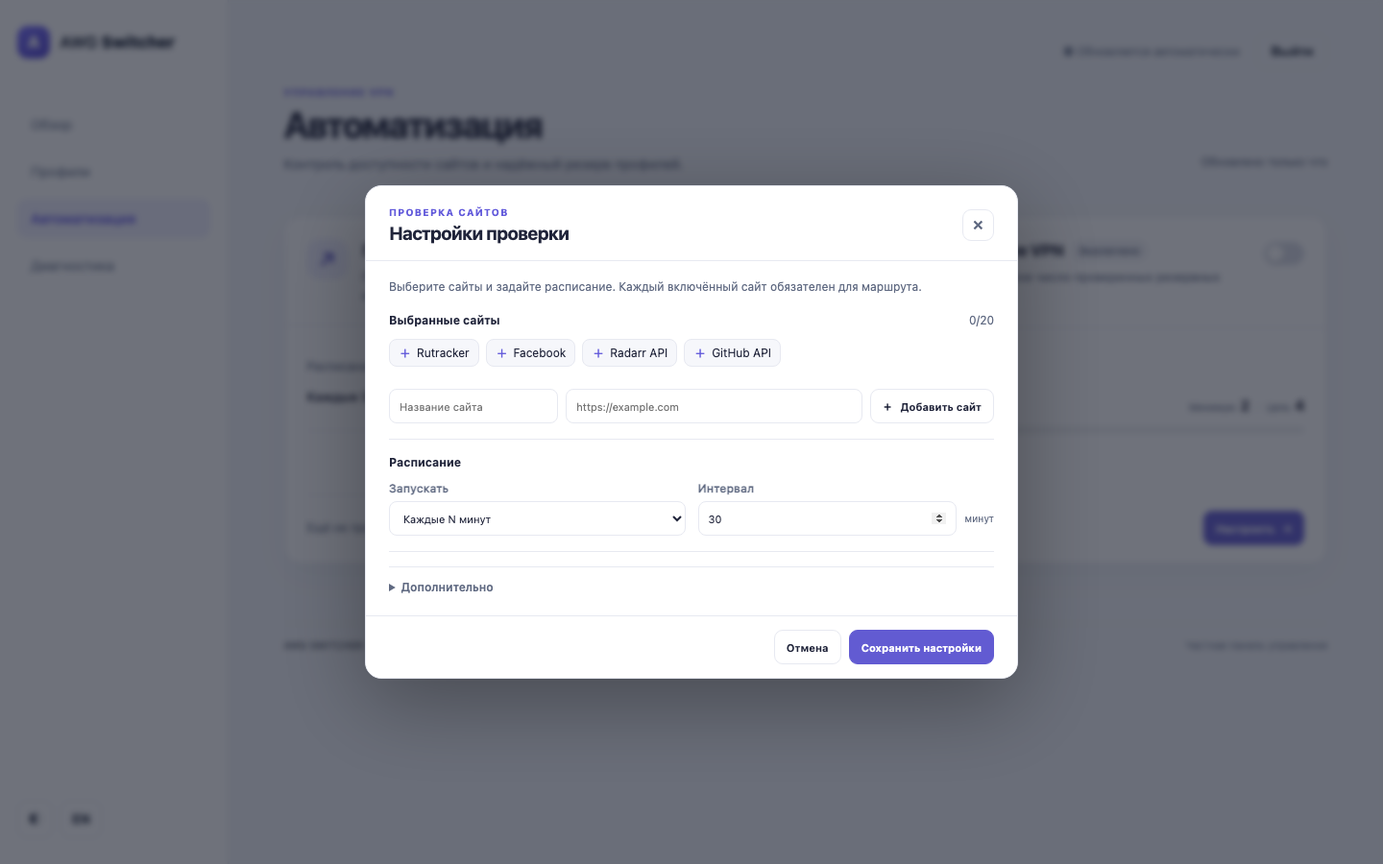
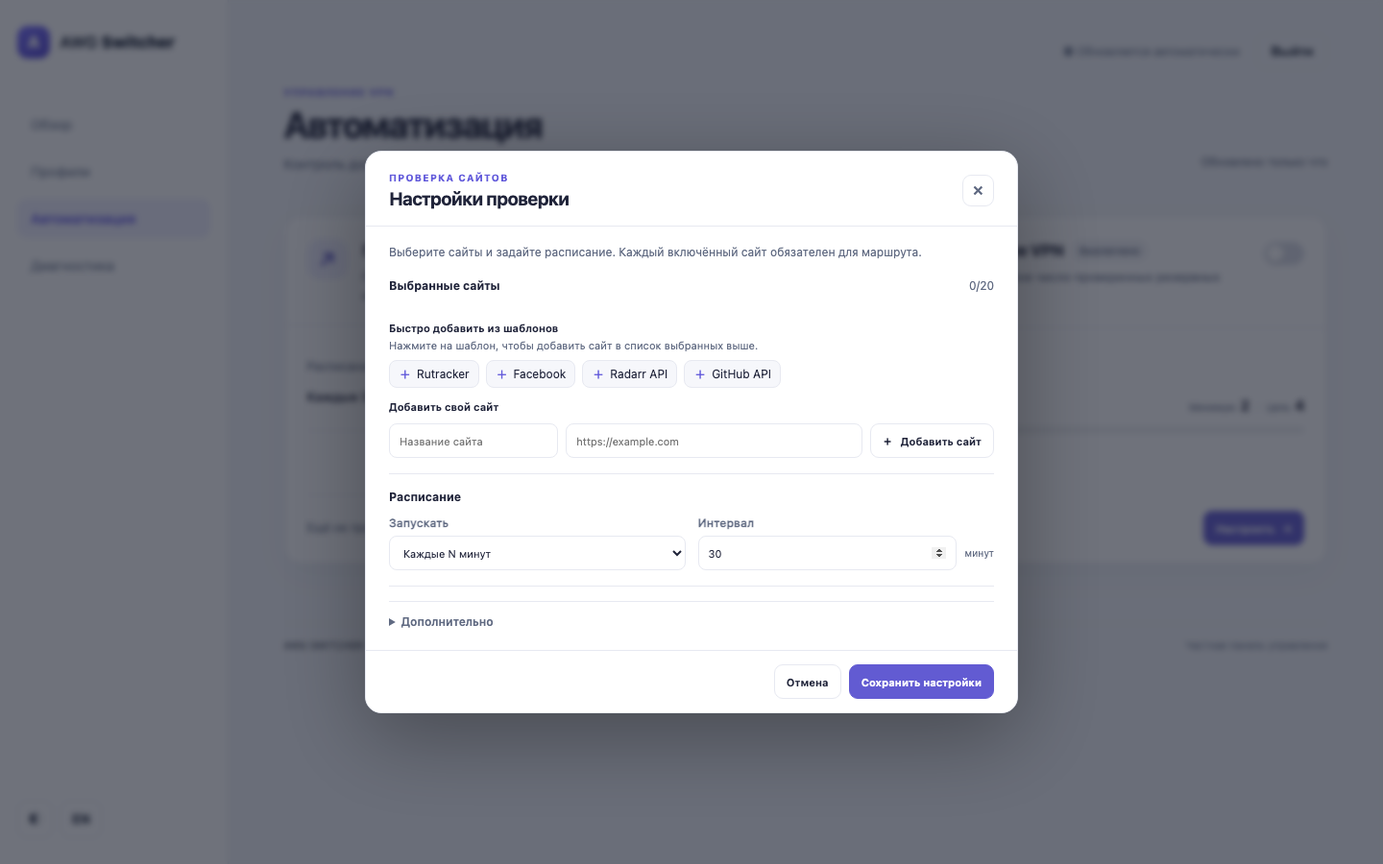
Clarify website template selection

diff --git a/cmd/awg-switcher/web/automation-page.js b/cmd/awg-switcher/web/automation-page.js
@@ -1,8 +1,8 @@
 (()=>{'use strict';
 const $=s=>document.querySelector(s),$$=s=>[...document.querySelectorAll(s)];
 const text={
- ru:{eyebrow:'УПРАВЛЕНИЕ VPN',title:'Автоматизация',intro:'Контроль доступности сайтов и надёжный резерв профилей.',siteTitle:'Проверка сайтов',siteDescription:'Проверяем сайты через каждый VPN-профиль и исключаем неподходящие маршруты.',poolTitle:'Автопополнение VPN',poolDescription:'Поддерживаем нужное число проверенных резервных профилей.',enabled:'Включено',disabled:'Выключено',requiresSetup:'Требуется настройка',working:'Работает',checking:'Проверка…',waiting:'Ожидает первую проверку',workingProfiles:'Рабочих профилей',minimum:'Минимум',target:'Цель',schedule:'Расписание',nextCheck:'Следующая проверка',check:'Проверить',configure:'Настроить',siteSettingsEyebrow:'ПРОВЕРКА САЙТОВ',siteSettingsTitle:'Настройки проверки',siteDialogIntro:'Выберите сайты и задайте расписание. Каждый включённый сайт обязателен для маршрута.',selectedSites:'Выбранные сайты',siteNamePlaceholder:'Название сайта',siteUrlPlaceholder:'https://example.com',addSite:'Добавить сайт',scheduleTitle:'Расписание',scheduleMode:'Запускать',interval:'Интервал',minutes:'минут',dailyTime:'Время',advanced:'Дополнительно',timezone:'Часовой пояс',policy:'Политика сайтов',minimumPasses:'Минимум успешных проверок',timeout:'Таймаут, сек',failureThreshold:'Отказов до блокировки',recoveryThreshold:'Успехов до восстановления',pauseSchedule:'Приостановить расписание',cancel:'Отмена',saveSettings:'Сохранить настройки',poolSettingsEyebrow:'РЕЗЕРВ VPN',poolSettingsTitle:'Настройки автопополнения',poolDialogIntro:'Новые конфиги проходят проверку и добавляются как резервные. Основной профиль не заменяется.',minimumReady:'Минимум рабочих профилей',targetReady:'Целевое количество',versionsTitle:'Версии AWG',checkInterval:'Проверять необходимость, мин',cooldown:'Пауза после ошибки, мин',maxPerRun:'Кандидатов за запуск',dailyLimit:'Попыток за сутки',maxSaved:'Сохранённых профилей',autoActivate:'Добавлять проверенные профили в резерв',generateBelow:'Пополнять при нехватке',generateAllDown:'Разрешить при полном отказе VPN',useWebsites:'Проверять сайты на новых профилях',notifyLow:'Показывать предупреждение о нехватке',generatorNote:'Используются настройки существующего генератора. Автоматическое удаление профилей не выполняется.',profileSummary:'Состояние VPN загружается…',loading:'Загрузка состояния…',loadError:'Не удалось загрузить состояние автоматизации.',retry:'Повторить',noProfiles:'Нет профилей',noData:'Нет данных',noChecks:'Ещё не проверялся',monitorOff:'Проверка сайтов выключена',schedulePaused:'Расписание приостановлено',noSites:'Сайты не выбраны',openSettings:'Добавить сайты в настройках',nextDisabled:'Автоматические проверки выключены',nextNoSites:'Добавьте сайты, чтобы включить проверки',lastCheck:'Последняя проверка',passedProfiles:'профилей прошли',nextAt:'Далее',available:'Доступен',unavailable:'Недоступен',httpError:'Ответ HTTP',pending:'Ожидает проверки',siteDisabled:'Выключен',siteError:'Ошибка проверки',moreSites:'Ещё',profilesWorking:'Рабочих профилей',profilesBlocked:'исключены политикой сайтов',poolLastNever:'Ещё не запускалось',poolOff:'Автопополнение выключено',poolRunning:'Проверяем новые профили…',poolFailed:'Последняя попытка не удалась',poolDone:'Последнее пополнение',lastGeneration:'Последняя генерация',addedReserves:'Добавлено резервов',poolWaiting:'Пополнение не требуется',poolShortage:'Профилей меньше минимума',siteSaved:'Настройки проверки сохранены',poolSaved:'Настройки автопополнения сохранены',toggleSaved:'Изменение сохранено',checkStarted:'Проверка завершена',confirmEnable:'Включить автопополнение? Если профилей меньше минимума, начнётся ограниченная генерация.',confirmSave:'Сохранить изменения доступности? Будет выполнен предварительный прогноз маршрутов.',noWorking:'Нет доступных маршрутов',saveError:'Не удалось сохранить настройки',invalidURL:'Введите название и HTTPS-адрес сайта.',minimumTarget:'Целевое количество должно быть не меньше минимального.',chooseVersion:'Выберите хотя бы одну версию AWG.',remove:'Удалить',required:'Обязательный',enabledShort:'Включён',statusError:'Ошибка загрузки',unknown:'Нет данных',generationQueued:'Запуск поставлен в очередь',save:'Сохранить',statuses:'Ожидаемые HTTP-статусы',history:'История автопополнения'},
-  en:{eyebrow:'VPN CONTROL',title:'Automation',intro:'Website availability and a reliable reserve of VPN profiles.',siteTitle:'Website checks',siteDescription:'Check sites through each VPN profile and keep unsuitable routes out of service.',poolTitle:'VPN replenishment',poolDescription:'Maintain the desired number of verified reserve profiles.',enabled:'Enabled',disabled:'Off',requiresSetup:'Setup required',working:'Running',checking:'Checking…',waiting:'Waiting for first check',workingProfiles:'Working profiles',minimum:'Minimum',target:'Target',schedule:'Schedule',nextCheck:'Next check',check:'Check now',configure:'Configure',siteSettingsEyebrow:'WEBSITE CHECKS',siteSettingsTitle:'Website check settings',siteDialogIntro:'Choose sites and a schedule. Each enabled site is required for a route.',selectedSites:'Selected sites',siteNamePlaceholder:'Website name',siteUrlPlaceholder:'https://example.com',addSite:'Add website',scheduleTitle:'Schedule',scheduleMode:'Run',interval:'Interval',minutes:'minutes',dailyTime:'Time',advanced:'Advanced',timezone:'Time zone',policy:'Website policy',minimumPasses:'Minimum successful checks',timeout:'Timeout, sec',failureThreshold:'Failures before blocking',recoveryThreshold:'Successes before recovery',pauseSchedule:'Pause schedule',cancel:'Cancel',saveSettings:'Save settings',poolSettingsEyebrow:'VPN RESERVE',poolSettingsTitle:'Replenishment settings',poolDialogIntro:'New configs are verified and added as backups. The active profile is not replaced.',minimumReady:'Minimum working profiles',targetReady:'Target count',versionsTitle:'AWG versions',checkInterval:'Check need, minutes',cooldown:'Retry pause, minutes',maxPerRun:'Candidates per run',dailyLimit:'Attempts per day',maxSaved:'Saved profiles limit',autoActivate:'Add verified profiles to reserve',generateBelow:'Replenish below minimum',generateAllDown:'Allow generation when all VPNs are down',useWebsites:'Check websites on new profiles',notifyLow:'Show low-pool warning',generatorNote:'Existing generator settings are reused. Profiles are never automatically deleted.',loading:'Loading automation status…',loadError:'Could not load automation status.',retry:'Retry',noProfiles:'No profiles',noData:'No data',noChecks:'Not checked yet',monitorOff:'Website checks are off',schedulePaused:'Schedule paused',noSites:'No sites selected',openSettings:'Add websites in settings',nextDisabled:'Automatic checks are off',nextNoSites:'Add sites to enable checks',lastCheck:'Last check',passedProfiles:'profiles passed',nextAt:'Next',available:'Available',unavailable:'Unavailable',httpError:'HTTP response',pending:'Waiting for check',siteDisabled:'Off',siteError:'Check error',moreSites:'More',profilesBlocked:'excluded by website policy',poolLastNever:'Has not run yet',poolOff:'Automatic replenishment is off',poolRunning:'Verifying new profiles…',poolFailed:'Last attempt failed',poolDone:'Last replenishment',poolWaiting:'No replenishment needed',poolShortage:'Below minimum',lastGeneration:'Last generation',addedReserves:'Reserves added',siteSaved:'Website settings saved',poolSaved:'Replenishment settings saved',toggleSaved:'Change saved',checkStarted:'Check completed',confirmEnable:'Enable automatic replenishment? A limited generation run may start if the pool is low.',confirmSave:'Save website availability changes? A route preview will run first.',noWorking:'No available routes',saveError:'Could not save settings',invalidURL:'Enter a name and an HTTPS website address.',minimumTarget:'Target count must be at least the minimum.',chooseVersion:'Select at least one AWG version.',remove:'Remove',required:'Required',enabledShort:'On',statusError:'Could not load',unknown:'No data',generationQueued:'Run queued',save:'Save',statuses:'Expected HTTP statuses',history:'Replenishment history'}
+ ru:{eyebrow:'УПРАВЛЕНИЕ VPN',title:'Автоматизация',intro:'Контроль доступности сайтов и надёжный резерв профилей.',siteTitle:'Проверка сайтов',siteDescription:'Проверяем сайты через каждый VPN-профиль и исключаем неподходящие маршруты.',poolTitle:'Автопополнение VPN',poolDescription:'Поддерживаем нужное число проверенных резервных профилей.',enabled:'Включено',disabled:'Выключено',requiresSetup:'Требуется настройка',working:'Работает',checking:'Проверка…',waiting:'Ожидает первую проверку',workingProfiles:'Рабочих профилей',minimum:'Минимум',target:'Цель',schedule:'Расписание',nextCheck:'Следующая проверка',check:'Проверить',configure:'Настроить',siteSettingsEyebrow:'ПРОВЕРКА САЙТОВ',siteSettingsTitle:'Настройки проверки',siteDialogIntro:'Выберите сайты и задайте расписание. Каждый включённый сайт обязателен для маршрута.',selectedSites:'Выбранные сайты',templatePickerTitle:'Быстро добавить из шаблонов',templatePickerHint:'Нажмите на шаблон, чтобы добавить сайт в список выбранных выше.',customSiteTitle:'Добавить свой сайт',settingsSavedNoSites:'Настройки сохранены. Выберите шаблон или добавьте сайт, чтобы запустить проверки.',settingsSavedPaused:'Настройки сохранены, расписание приостановлено.',siteNamePlaceholder:'Название сайта',siteUrlPlaceholder:'https://example.com',addSite:'Добавить сайт',scheduleTitle:'Расписание',scheduleMode:'Запускать',interval:'Интервал',minutes:'минут',dailyTime:'Время',advanced:'Дополнительно',timezone:'Часовой пояс',policy:'Политика сайтов',minimumPasses:'Минимум успешных проверок',timeout:'Таймаут, сек',failureThreshold:'Отказов до блокировки',recoveryThreshold:'Успехов до восстановления',pauseSchedule:'Приостановить расписание',cancel:'Отмена',saveSettings:'Сохранить настройки',poolSettingsEyebrow:'РЕЗЕРВ VPN',poolSettingsTitle:'Настройки автопополнения',poolDialogIntro:'Новые конфиги проходят проверку и добавляются как резервные. Основной профиль не заменяется.',minimumReady:'Минимум рабочих профилей',targetReady:'Целевое количество',versionsTitle:'Версии AWG',checkInterval:'Проверять необходимость, мин',cooldown:'Пауза после ошибки, мин',maxPerRun:'Кандидатов за запуск',dailyLimit:'Попыток за сутки',maxSaved:'Сохранённых профилей',autoActivate:'Добавлять проверенные профили в резерв',generateBelow:'Пополнять при нехватке',generateAllDown:'Разрешить при полном отказе VPN',useWebsites:'Проверять сайты на новых профилях',notifyLow:'Показывать предупреждение о нехватке',generatorNote:'Используются настройки существующего генератора. Автоматическое удаление профилей не выполняется.',profileSummary:'Состояние VPN загружается…',loading:'Загрузка состояния…',loadError:'Не удалось загрузить состояние автоматизации.',retry:'Повторить',noProfiles:'Нет профилей',noData:'Нет данных',noChecks:'Ещё не проверялся',monitorOff:'Проверка сайтов выключена',schedulePaused:'Расписание приостановлено',noSites:'Сайты не выбраны',openSettings:'Добавить сайты в настройках',nextDisabled:'Автоматические проверки выключены',nextNoSites:'Добавьте сайты, чтобы включить проверки',lastCheck:'Последняя проверка',passedProfiles:'профилей прошли',nextAt:'Далее',available:'Доступен',unavailable:'Недоступен',httpError:'Ответ HTTP',pending:'Ожидает проверки',siteDisabled:'Выключен',siteError:'Ошибка проверки',moreSites:'Ещё',profilesWorking:'Рабочих профилей',profilesBlocked:'исключены политикой сайтов',poolLastNever:'Ещё не запускалось',poolOff:'Автопополнение выключено',poolRunning:'Проверяем новые профили…',poolFailed:'Последняя попытка не удалась',poolDone:'Последнее пополнение',lastGeneration:'Последняя генерация',addedReserves:'Добавлено резервов',poolWaiting:'Пополнение не требуется',poolShortage:'Профилей меньше минимума',siteSaved:'Настройки проверки сохранены',poolSaved:'Настройки автопополнения сохранены',toggleSaved:'Изменение сохранено',checkStarted:'Проверка завершена',confirmEnable:'Включить автопополнение? Если профилей меньше минимума, начнётся ограниченная генерация.',confirmSave:'Сохранить изменения доступности? Будет выполнен предварительный прогноз маршрутов.',noWorking:'Нет доступных маршрутов',saveError:'Не удалось сохранить настройки',invalidURL:'Введите название и HTTPS-адрес сайта.',minimumTarget:'Целевое количество должно быть не меньше минимального.',chooseVersion:'Выберите хотя бы одну версию AWG.',remove:'Удалить',required:'Обязательный',enabledShort:'Включён',statusError:'Ошибка загрузки',unknown:'Нет данных',generationQueued:'Запуск поставлен в очередь',save:'Сохранить',statuses:'Ожидаемые HTTP-статусы',history:'История автопополнения'},
+  en:{eyebrow:'VPN CONTROL',title:'Automation',intro:'Website availability and a reliable reserve of VPN profiles.',siteTitle:'Website checks',siteDescription:'Check sites through each VPN profile and keep unsuitable routes out of service.',poolTitle:'VPN replenishment',poolDescription:'Maintain the desired number of verified reserve profiles.',enabled:'Enabled',disabled:'Off',requiresSetup:'Setup required',working:'Running',checking:'Checking…',waiting:'Waiting for first check',workingProfiles:'Working profiles',minimum:'Minimum',target:'Target',schedule:'Schedule',nextCheck:'Next check',check:'Check now',configure:'Configure',siteSettingsEyebrow:'WEBSITE CHECKS',siteSettingsTitle:'Website check settings',siteDialogIntro:'Choose sites and a schedule. Each enabled site is required for a route.',selectedSites:'Selected sites',templatePickerTitle:'Quick add from templates',templatePickerHint:'Select a template to add it to the selected sites above.',customSiteTitle:'Add a custom website',settingsSavedNoSites:'Settings saved. Choose a template or add a website to start checks.',settingsSavedPaused:'Settings saved; the schedule is paused.',siteNamePlaceholder:'Website name',siteUrlPlaceholder:'https://example.com',addSite:'Add website',scheduleTitle:'Schedule',scheduleMode:'Run',interval:'Interval',minutes:'minutes',dailyTime:'Time',advanced:'Advanced',timezone:'Time zone',policy:'Website policy',minimumPasses:'Minimum successful checks',timeout:'Timeout, sec',failureThreshold:'Failures before blocking',recoveryThreshold:'Successes before recovery',pauseSchedule:'Pause schedule',cancel:'Cancel',saveSettings:'Save settings',poolSettingsEyebrow:'VPN RESERVE',poolSettingsTitle:'Replenishment settings',poolDialogIntro:'New configs are verified and added as backups. The active profile is not replaced.',minimumReady:'Minimum working profiles',targetReady:'Target count',versionsTitle:'AWG versions',checkInterval:'Check need, minutes',cooldown:'Retry pause, minutes',maxPerRun:'Candidates per run',dailyLimit:'Attempts per day',maxSaved:'Saved profiles limit',autoActivate:'Add verified profiles to reserve',generateBelow:'Replenish below minimum',generateAllDown:'Allow generation when all VPNs are down',useWebsites:'Check websites on new profiles',notifyLow:'Show low-pool warning',generatorNote:'Existing generator settings are reused. Profiles are never automatically deleted.',loading:'Loading automation status…',loadError:'Could not load automation status.',retry:'Retry',noProfiles:'No profiles',noData:'No data',noChecks:'Not checked yet',monitorOff:'Website checks are off',schedulePaused:'Schedule paused',noSites:'No sites selected',openSettings:'Add websites in settings',nextDisabled:'Automatic checks are off',nextNoSites:'Add sites to enable checks',lastCheck:'Last check',passedProfiles:'profiles passed',nextAt:'Next',available:'Available',unavailable:'Unavailable',httpError:'HTTP response',pending:'Waiting for check',siteDisabled:'Off',siteError:'Check error',moreSites:'More',profilesBlocked:'excluded by website policy',poolLastNever:'Has not run yet',poolOff:'Automatic replenishment is off',poolRunning:'Verifying new profiles…',poolFailed:'Last attempt failed',poolDone:'Last replenishment',poolWaiting:'No replenishment needed',poolShortage:'Below minimum',lastGeneration:'Last generation',addedReserves:'Reserves added',siteSaved:'Website settings saved',poolSaved:'Replenishment settings saved',toggleSaved:'Change saved',checkStarted:'Check completed',confirmEnable:'Enable automatic replenishment? A limited generation run may start if the pool is low.',confirmSave:'Save website availability changes? A route preview will run first.',noWorking:'No available routes',saveError:'Could not save settings',invalidURL:'Enter a name and an HTTPS website address.',minimumTarget:'Target count must be at least the minimum.',chooseVersion:'Select at least one AWG version.',remove:'Remove',required:'Required',enabledShort:'On',statusError:'Could not load',unknown:'No data',generationQueued:'Run queued',save:'Save',statuses:'Expected HTTP statuses',history:'Replenishment history'}
 };
 let state={profiles:null,system:null,websiteConfig:null,websiteStatus:null,templates:[],autoConfig:null,autoStatus:null},siteDraft=null,csrf='',checking=false,savingSite=false,savingPool=false,refreshPromise=null,toastTimer;
 const lang=()=>localStorage.getItem('awg-lang')==='en'?'en':'ru',t=k=>text[lang()][k]||k;
@@ -52,7 +52,7 @@ function showSiteError(message){$('#site-settings-error').textContent=message;$(
 function fillPoolDialog(){const c=state.autoConfig;$('#pool-minimum-input').value=c.minimum_ready;$('#pool-target-input').value=c.target_ready;$('#pool-interval').value=c.check_interval_minutes;$('#pool-cooldown').value=c.failure_cooldown_minutes;$('#pool-max-per-run').value=c.max_per_run;$('#pool-daily-limit').value=c.max_attempts_per_day;$('#pool-max-saved').value=c.max_saved_profiles;$('#pool-auto-activate').checked=c.auto_activate;$('#pool-below-minimum').checked=c.generate_below_minimum;$('#pool-all-down').checked=c.generate_when_all_down;$('#pool-use-websites').checked=!!c.use_website_monitor;$('#pool-notify').checked=c.notify_low_pool;$$('.pool-version').forEach(x=>x.checked=(c.versions||[]).includes(x.value));const events=(state.autoStatus.events||[]).filter(e=>validDate(e.at)).slice().reverse().slice(0,20);$('#pool-events-list').innerHTML=events.length?events.map(e=>`<article class="pool-event"><div><strong>${escape(e.kind)}</strong><time>${escape(date(e.at))}</time></div><p>${escape(e.message)}</p></article>`).join(''):`<p class="pool-events-empty">${lang()==='ru'?'Событий пока нет':'No events yet'}</p>`;$('#pool-settings-error').classList.add('hidden')}
 function readSiteDialog(){const old=siteDraft,advanced=$('#site-settings-dialog .settings-advanced').open;const websites=$$('.site-editor-row').map(row=>{const prior=old.websites.find(w=>w.id===row.dataset.siteId);if(!prior)throw Error('Website entry became stale');const rowAdvanced=row.querySelector('.site-editor-advanced').open;return {...prior,name:row.querySelector('[data-site-name]').value.trim(),url:row.querySelector('[data-site-url]').value.trim(),expected_statuses:rowAdvanced?parseStatuses(row.querySelector('[data-site-status]').value):(prior.expected_statuses?.length?prior.expected_statuses:Array.from({length:200},(_,i)=>i+200)),enabled:rowAdvanced?row.querySelector('[data-site-active]').checked:prior.enabled,required:rowAdvanced?row.querySelector('[data-site-required]').checked:prior.required}});const [hour,minute]=($('#site-schedule-daily').value||'09:00').split(':').map(Number);const mode=$('#site-schedule-mode').value;return {...old,websites,timeout_seconds:advanced?(+$('#site-timeout').value||old.timeout_seconds||15):old.timeout_seconds,failure_threshold:advanced?(+$('#site-failures').value||old.failure_threshold||2):old.failure_threshold,recovery_threshold:advanced?(+$('#site-recoveries').value||old.recovery_threshold||2):old.recovery_threshold,policy:advanced?($('#site-policy').value||old.policy||'all_required'):old.policy,minimum_passes:advanced&&$('#site-policy').value==='minimum_passes'?+$('#site-minimum-passes').value:old.minimum_passes,schedule:{...old.schedule,mode,minutes:+$('#site-schedule-minutes').value,hour,minute,cron:$('#site-schedule-cron').value.trim(),timezone:advanced?($('#site-schedule-timezone').value.trim()||old.schedule?.timezone||'UTC'):old.schedule?.timezone||'UTC',paused:advanced?$('#site-schedule-paused').checked:!!old.schedule?.paused}}}
 async function saveWebsiteConfig(next){let token='';if(policyFingerprint(next)!==policyFingerprint(state.websiteConfig)){const preview=await api('/api/website-monitor/preview',{method:'POST',body:JSON.stringify(next)});token=preview.preview_token;const eligible=(preview.preview||[]).filter(p=>p.routing_eligibility==='ELIGIBLE').length;const warning=eligible===0?t('noWorking'):`${t('confirmSave')} ${eligible} ${lang()==='ru'?'маршрутов останутся доступными.':'routes will remain available.'}`;if(!confirm(warning))return false}const response=await api('/api/website-monitor/settings',{method:'POST',body:JSON.stringify({config:next,confirm:true,preview_token:token})});state.websiteConfig=next;if(response.status)state.websiteStatus=response.status;return true}
-async function saveSiteDialog(event){event.preventDefault();if(savingSite)return;savingSite=true;const button=$('#site-settings-form [type=submit]');button.disabled=true;$('#site-settings-error').classList.add('hidden');try{const next=readSiteDialog();if(next.policy==='minimum_passes'&&next.minimum_passes>next.websites.filter(w=>w.enabled).length)throw Error('Minimum passes exceeds enabled websites');if(!await saveWebsiteConfig(next))return;siteDraft=null;$('#site-settings-dialog').close();await load();notify(t('siteSaved'))}catch(error){showSiteError(error.message||t('saveError'))}finally{savingSite=false;button.disabled=false}}
+async function saveSiteDialog(event){event.preventDefault();if(savingSite)return;savingSite=true;const button=$('#site-settings-form [type=submit]');button.disabled=true;$('#site-settings-error').classList.add('hidden');try{const next=readSiteDialog();if(next.policy==='minimum_passes'&&next.minimum_passes>next.websites.filter(w=>w.enabled).length)throw Error('Minimum passes exceeds enabled websites');if(!await saveWebsiteConfig(next))return;siteDraft=null;$('#site-settings-dialog').close();await load();notify(next.enabled&&!(next.websites||[]).some(w=>w.enabled)?t('settingsSavedNoSites'):next.enabled&&next.schedule?.paused?t('settingsSavedPaused'):t('siteSaved'))}catch(error){showSiteError(error.message||t('saveError'))}finally{savingSite=false;button.disabled=false}}
 async function savePoolDialog(event){event.preventDefault();if(savingPool)return;savingPool=true;const button=$('#pool-settings-form [type=submit]');button.disabled=true;$('#pool-settings-error').classList.add('hidden');try{const min=+$('#pool-minimum-input').value,target=+$('#pool-target-input').value,versions=$$('.pool-version:checked').map(x=>x.value);if(target<min)throw Error(t('minimumTarget'));if(!versions.length)throw Error(t('chooseVersion'));const old=state.autoConfig;const next={...old,minimum_ready:min,target_ready:target,versions,check_interval_minutes:+$('#pool-interval').value,failure_cooldown_minutes:+$('#pool-cooldown').value,max_per_run:+$('#pool-max-per-run').value,max_attempts_per_day:+$('#pool-daily-limit').value,max_saved_profiles:+$('#pool-max-saved').value,auto_activate:$('#pool-auto-activate').checked,generate_below_minimum:$('#pool-below-minimum').checked,generate_when_all_down:$('#pool-all-down').checked,use_website_monitor:$('#pool-use-websites').checked,notify_low_pool:$('#pool-notify').checked};const result=await api('/api/auto-replenishment/settings',{method:'POST',body:JSON.stringify(next)});state.autoConfig=next;if(result.status)state.autoStatus=result.status;$('#pool-settings-dialog').close();await load();notify(t('poolSaved'))}catch(error){$('#pool-settings-error').textContent=error.message||t('saveError');$('#pool-settings-error').classList.remove('hidden')}finally{savingPool=false;button.disabled=false}}
 async function toggleWebsite(){const input=$('#wm-enabled'),previous=state.websiteConfig.enabled;input.disabled=true;try{const next={...state.websiteConfig,enabled:input.checked};const saved=await saveWebsiteConfig(next);if(!saved){input.checked=previous;return}await load();notify(t('toggleSaved'))}catch(error){input.checked=previous;notify(error.message||t('saveError'),'error')}finally{input.disabled=false}}
 async function togglePool(){const input=$('#auto-enabled'),previous=state.autoConfig.enabled;input.disabled=true;try{if(input.checked&&!previous&&!confirm(t('confirmEnable'))){input.checked=false;return}const next={...state.autoConfig,enabled:input.checked,use_website_monitor:!!state.websiteConfig.enabled};const result=await api('/api/auto-replenishment/settings',{method:'POST',body:JSON.stringify(next)});state.autoConfig=next;if(result.status)state.autoStatus=result.status;await load();notify(t('toggleSaved'))}catch(error){input.checked=previous;notify(error.message||t('saveError'),'error')}finally{input.disabled=false}}

diff --git a/cmd/awg-switcher/web/index.html b/cmd/awg-switcher/web/index.html
@@ -22,7 +22,7 @@
    </div>
    <div class="automation-bottomline"><span id="automation-refresh-state" aria-live="polite"></span></div>
   </section>
-  <dialog id="site-settings-dialog" class="automation-dialog" aria-labelledby="site-dialog-title"><form id="site-settings-form" class="automation-dialog-shell"><div class="automation-dialog-head"><div><div class="eyebrow" data-auto-ui="siteSettingsEyebrow">ПРОВЕРКА САЙТОВ</div><h2 id="site-dialog-title" data-auto-ui="siteSettingsTitle">Настройки проверки</h2></div><button class="icon-button" type="button" data-close-dialog="site-settings-dialog" aria-label="Закрыть">×</button></div><div class="automation-dialog-body"><p class="automation-dialog-intro" data-auto-ui="siteDialogIntro">Выберите сайты и задайте удобное расписание. Каждый выбранный сайт обязателен для маршрута.</p><div class="settings-section"><div class="settings-section-title"><h3 data-auto-ui="selectedSites">Выбранные сайты</h3><span id="site-count-label" class="settings-count"></span></div><div id="site-template-list" class="template-picker"></div><div id="site-editor-list" class="site-editor-list"></div><div class="site-add-row"><input id="site-add-name" type="text" maxlength="100" data-auto-ui-placeholder="siteNamePlaceholder" placeholder="Название сайта"><input id="site-add-url" type="url" data-auto-ui-placeholder="siteUrlPlaceholder" placeholder="https://example.com"><button id="site-add-button" class="button-secondary" type="button"><span aria-hidden="true">＋</span><span data-auto-ui="addSite">Добавить сайт</span></button></div></div><div class="settings-section"><div class="settings-section-title"><h3 data-auto-ui="scheduleTitle">Расписание</h3></div><div class="settings-grid"><label class="field"><span data-auto-ui="scheduleMode">Запускать</span><select id="site-schedule-mode"><option value="every">Каждые N минут</option><option value="daily">Каждый день</option><option value="cron">Cron</option></select></label><label class="field" id="site-interval-field"><span data-auto-ui="interval">Интервал</span><div class="input-unit"><input id="site-schedule-minutes" type="number" min="1" max="1440"><span data-auto-ui="minutes">мин</span></div></label><label class="field hidden" id="site-daily-field"><span data-auto-ui="dailyTime">Время</span><input id="site-schedule-daily" type="time"></label><label class="field hidden" id="site-cron-field"><span>Cron</span><input id="site-schedule-cron" type="text"></label></div></div><details class="settings-advanced"><summary data-auto-ui="advanced">Дополнительно</summary><div class="settings-section"><div class="settings-grid"><label class="field"><span data-auto-ui="timezone">Часовой пояс</span><input id="site-schedule-timezone" type="text"></label><label class="field"><span data-auto-ui="policy">Политика сайтов</span><select id="site-policy"><option value="all_required">Все обязательные сайты</option><option value="minimum_passes">Минимум успешных</option></select></label><label class="field" id="site-minimum-field"><span data-auto-ui="minimumPasses">Минимум успешных</span><input id="site-minimum-passes" type="number" min="1" max="20"></label><label class="field"><span data-auto-ui="timeout">Таймаут (сек)</span><input id="site-timeout" type="number" min="2" max="60"></label><label class="field"><span data-auto-ui="failureThreshold">Отказов до блокировки</span><input id="site-failures" type="number" min="1" max="20"></label><label class="field"><span data-auto-ui="recoveryThreshold">Успехов до восстановления</span><input id="site-recoveries" type="number" min="1" max="20"></label><label class="switch-line"><input id="site-schedule-paused" type="checkbox"><span data-auto-ui="pauseSchedule">Приостановить расписание</span></label></div><div id="site-advanced-list" class="site-advanced-list"></div></div></details><div id="site-settings-error" class="form-error hidden" role="alert"></div></div><div class="automation-dialog-foot"><button class="button-secondary" type="button" data-close-dialog="site-settings-dialog" data-auto-ui="cancel">Отмена</button><button class="button-primary" type="submit" data-auto-ui="saveSettings">Сохранить настройки</button></div></form></dialog>
+  <dialog id="site-settings-dialog" class="automation-dialog" aria-labelledby="site-dialog-title"><form id="site-settings-form" class="automation-dialog-shell"><div class="automation-dialog-head"><div><div class="eyebrow" data-auto-ui="siteSettingsEyebrow">ПРОВЕРКА САЙТОВ</div><h2 id="site-dialog-title" data-auto-ui="siteSettingsTitle">Настройки проверки</h2></div><button class="icon-button" type="button" data-close-dialog="site-settings-dialog" aria-label="Закрыть">×</button></div><div class="automation-dialog-body"><p class="automation-dialog-intro" data-auto-ui="siteDialogIntro">Выберите сайты и задайте удобное расписание. Каждый выбранный сайт обязателен для маршрута.</p><div class="settings-section"><div class="settings-section-title"><h3 data-auto-ui="selectedSites">Выбранные сайты</h3><span id="site-count-label" class="settings-count"></span></div><div id="site-editor-list" class="site-editor-list"></div><div class="site-template-help"><strong data-auto-ui="templatePickerTitle">Быстро добавить из шаблонов</strong><p data-auto-ui="templatePickerHint">Нажмите на шаблон, чтобы добавить сайт в список выбранных выше.</p></div><div id="site-template-list" class="template-picker"></div><div class="site-custom-help" data-auto-ui="customSiteTitle">Добавить свой сайт</div><div class="site-add-row"><input id="site-add-name" type="text" maxlength="100" data-auto-ui-placeholder="siteNamePlaceholder" placeholder="Название сайта"><input id="site-add-url" type="url" data-auto-ui-placeholder="siteUrlPlaceholder" placeholder="https://example.com"><button id="site-add-button" class="button-secondary" type="button"><span aria-hidden="true">＋</span><span data-auto-ui="addSite">Добавить сайт</span></button></div></div><div class="settings-section"><div class="settings-section-title"><h3 data-auto-ui="scheduleTitle">Расписание</h3></div><div class="settings-grid"><label class="field"><span data-auto-ui="scheduleMode">Запускать</span><select id="site-schedule-mode"><option value="every">Каждые N минут</option><option value="daily">Каждый день</option><option value="cron">Cron</option></select></label><label class="field" id="site-interval-field"><span data-auto-ui="interval">Интервал</span><div class="input-unit"><input id="site-schedule-minutes" type="number" min="1" max="1440"><span data-auto-ui="minutes">мин</span></div></label><label class="field hidden" id="site-daily-field"><span data-auto-ui="dailyTime">Время</span><input id="site-schedule-daily" type="time"></label><label class="field hidden" id="site-cron-field"><span>Cron</span><input id="site-schedule-cron" type="text"></label></div></div><details class="settings-advanced"><summary data-auto-ui="advanced">Дополнительно</summary><div class="settings-section"><div class="settings-grid"><label class="field"><span data-auto-ui="timezone">Часовой пояс</span><input id="site-schedule-timezone" type="text"></label><label class="field"><span data-auto-ui="policy">Политика сайтов</span><select id="site-policy"><option value="all_required">Все обязательные сайты</option><option value="minimum_passes">Минимум успешных</option></select></label><label class="field" id="site-minimum-field"><span data-auto-ui="minimumPasses">Минимум успешных</span><input id="site-minimum-passes" type="number" min="1" max="20"></label><label class="field"><span data-auto-ui="timeout">Таймаут (сек)</span><input id="site-timeout" type="number" min="2" max="60"></label><label class="field"><span data-auto-ui="failureThreshold">Отказов до блокировки</span><input id="site-failures" type="number" min="1" max="20"></label><label class="field"><span data-auto-ui="recoveryThreshold">Успехов до восстановления</span><input id="site-recoveries" type="number" min="1" max="20"></label><label class="switch-line"><input id="site-schedule-paused" type="checkbox"><span data-auto-ui="pauseSchedule">Приостановить расписание</span></label></div><div id="site-advanced-list" class="site-advanced-list"></div></div></details><div id="site-settings-error" class="form-error hidden" role="alert"></div></div><div class="automation-dialog-foot"><button class="button-secondary" type="button" data-close-dialog="site-settings-dialog" data-auto-ui="cancel">Отмена</button><button class="button-primary" type="submit" data-auto-ui="saveSettings">Сохранить настройки</button></div></form></dialog>
    <dialog id="pool-settings-dialog" class="automation-dialog" aria-labelledby="pool-dialog-title"><form id="pool-settings-form" class="automation-dialog-shell"><div class="automation-dialog-head"><div><div class="eyebrow" data-auto-ui="poolSettingsEyebrow">РЕЗЕРВ VPN</div><h2 id="pool-dialog-title" data-auto-ui="poolSettingsTitle">Настройки автопополнения</h2></div><button class="icon-button" type="button" data-close-dialog="pool-settings-dialog" aria-label="Закрыть">×</button></div><div class="automation-dialog-body"><p class="automation-dialog-intro" data-auto-ui="poolDialogIntro">Новые конфиги проходят проверку и добавляются как резервные. Основной профиль не заменяется.</p><div class="settings-section"><div class="settings-grid"><label class="field"><span data-auto-ui="minimumReady">Минимум рабочих профилей</span><input id="pool-minimum-input" type="number" min="1" max="10"></label><label class="field"><span data-auto-ui="targetReady">Целевое количество</span><input id="pool-target-input" type="number" min="1" max="20"></label></div></div><div class="settings-section"><div class="settings-section-title"><h3 data-auto-ui="versionsTitle">Версии AWG</h3></div><div class="version-picker"><label><input type="checkbox" value="awg2" class="pool-version"><span>AWG 2.0</span></label><label><input type="checkbox" value="awg3" class="pool-version"><span>AWG 3.0</span></label><label><input type="checkbox" value="awg31" class="pool-version"><span>AWG 3.1</span></label></div></div><details class="settings-advanced"><summary data-auto-ui="advanced">Дополнительно</summary><div class="settings-section"><div class="settings-grid"><label class="field"><span data-auto-ui="checkInterval">Проверять необходимость (мин)</span><input id="pool-interval" type="number" min="5" max="1440"></label><label class="field"><span data-auto-ui="cooldown">Пауза после ошибки (мин)</span><input id="pool-cooldown" type="number" min="15" max="1440"></label><label class="field"><span data-auto-ui="maxPerRun">Кандидатов за запуск</span><input id="pool-max-per-run" type="number" min="1" max="3"></label><label class="field"><span data-auto-ui="dailyLimit">Попыток за сутки</span><input id="pool-daily-limit" type="number" min="1" max="6"></label><label class="field"><span data-auto-ui="maxSaved">Сохранённых профилей</span><input id="pool-max-saved" type="number" min="1" max="20"></label></div><div class="advanced-switches"><label class="switch-line"><input id="pool-auto-activate" type="checkbox"><span data-auto-ui="autoActivate">Активировать проверенные резервные профили</span></label><label class="switch-line"><input id="pool-below-minimum" type="checkbox"><span data-auto-ui="generateBelow">Пополнять при нехватке</span></label><label class="switch-line"><input id="pool-all-down" type="checkbox"><span data-auto-ui="generateAllDown">Разрешить при полном отказе VPN</span></label><label class="switch-line"><input id="pool-use-websites" type="checkbox"><span data-auto-ui="useWebsites">Проверять выбранные сайты у новых профилей</span></label><label class="switch-line"><input id="pool-notify" type="checkbox"><span data-auto-ui="notifyLow">Показывать предупреждение о нехватке</span></label></div><p class="advanced-note" data-auto-ui="generatorNote">Используются текущие настройки существующего генератора. Автоматическое удаление профилей не выполняется.</p></div></details><details id="pool-events-details" class="settings-advanced"><summary data-auto-ui="history">История автопополнения</summary><div id="pool-events-list" class="pool-events-list"></div></details><div id="pool-settings-error" class="form-error hidden" role="alert"></div></div><div class="automation-dialog-foot"><button class="button-secondary" type="button" data-close-dialog="pool-settings-dialog" data-auto-ui="cancel">Отмена</button><button class="button-primary" type="submit" data-auto-ui="saveSettings">Сохранить настройки</button></div></form></dialog>
   <div id="automation-toast" class="automation-toast" role="status" aria-live="polite"></div>
   <section id="diagnostics" class="page hidden"><div class="section-title"><div><div class="eyebrow">NETWORK INSPECTOR</div><h2 data-i="diagnosticsTitle">Диагностика</h2></div><button class="outline" id="download-support">Скачать диагностический отчёт</button></div><div class="card diag"><label data-i="profile">Профиль</label><select id="diag-profile"></select><label data-i="httpsUrl">HTTPS URL</label><input id="diag-url" value="https://api.ipify.org" placeholder="https://example.com/health"><label class="debug-toggle"><input id="network-debug" type="checkbox"> Включить подробную диагностику на 10 минут</label><p id="debug-state" class="small muted">Подробная диагностика выключена</p><div class="diag-actions"><button class="primary" id="run-check" data-i="runCheck">Проверить через VPN</button><button class="outline" id="full-check">Полная проверка подключения</button></div><pre id="diag-result" class="result muted"></pre></div><div class="card"><div class="eyebrow" data-i="eventFeed">EVENT FEED</div><h3 data-i="recentEvents">История переключений</h3><div id="events" class="profile-list"></div></div></section></div>

diff --git a/cmd/awg-switcher/web/assets.css b/cmd/awg-switcher/web/assets.css
@@ -68,6 +68,10 @@ body:has(.automation-page:not(.hidden))> .shell>main>header{justify-content:flex
 .field>span,.settings-section-title h3{font-size:12px}
 .settings-count,.template-chip,.site-editor-advanced>summary,.settings-advanced>summary{font-size:12px}
 .pool-event time,.pool-event p,.pool-events-empty{font-size:11px}
+.site-template-help{margin:14px 0 7px}
+.site-template-help strong,.site-custom-help{font-size:11px;font-weight:650;color:var(--auto-text)}
+.site-template-help p{margin:3px 0 0;font-size:11px;line-height:1.45;color:var(--auto-muted)}
+.site-custom-help{margin-top:13px}
 .automation-pill.is-setup{color:#815718;background:#fff2d3}
 :root[data-theme="dark"] .automation-pill.is-setup{color:#f2cf7c;background:#3b301b}
 @media(prefers-color-scheme:dark){:root:not([data-theme="light"]) .automation-pill.is-setup{color:#f2cf7c;background:#3b301b}}
